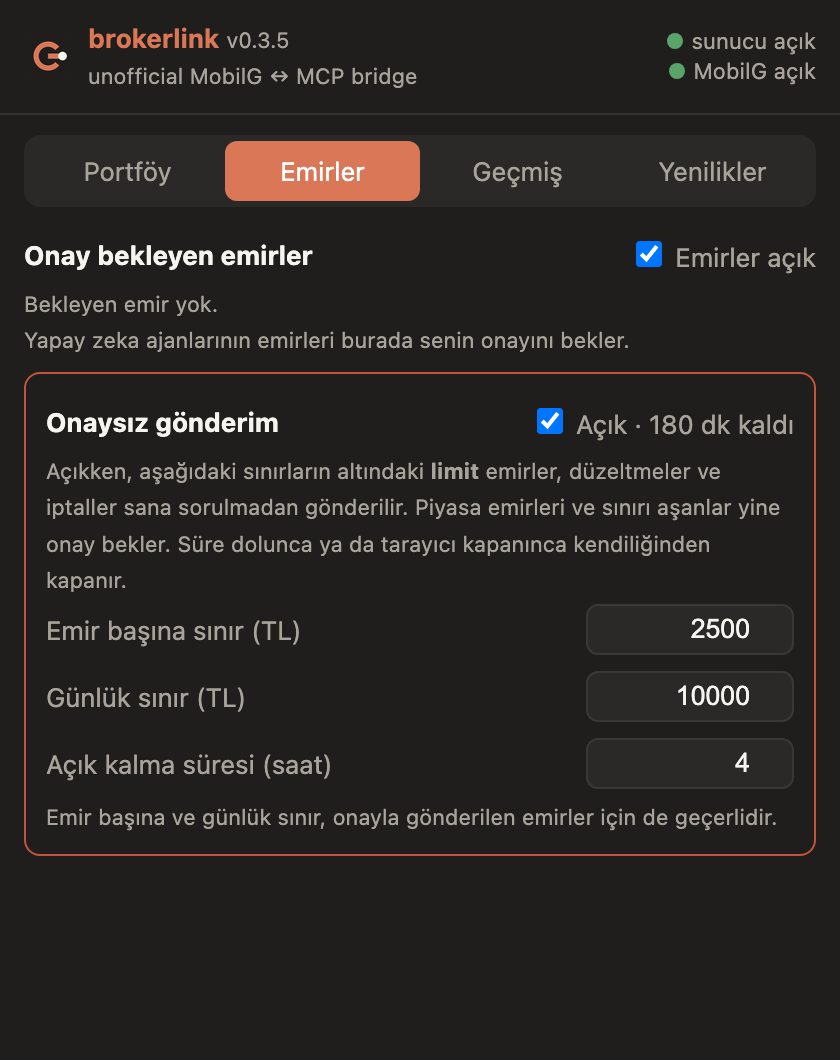
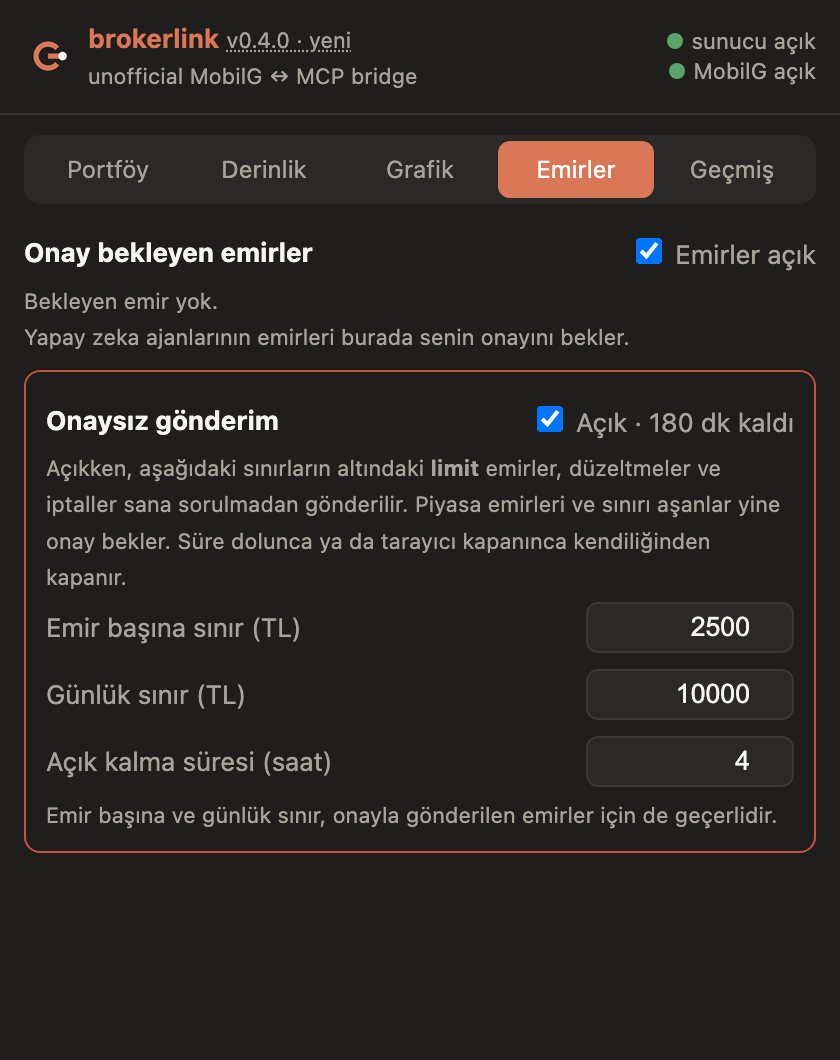
Popup: depth and chart tabs, P/L border colour scale, fix empty bid/ask (0.4.0)

diff --git a/docs/index.html b/docs/index.html
@@ -3,7 +3,7 @@
 <link rel="canonical" href="https://nsozturk.github.io/brokerlink/">
 <meta property="og:title" content="brokerlink"><meta property="og:description" content="brokerlink is a free, open-source Chrome extension and local MCP server that lets Claude, Codex, Gemini and other AI tools read your own PhillipCapital MobilG brokerage accoun"><meta property="og:image" content="https://nsozturk.github.io/brokerlink/assets/banner.png"><meta property="og:url" content="https://nsozturk.github.io/brokerlink/"><meta property="og:site_name" content="brokerlink">
 <meta name="twitter:card" content="summary_large_image"><meta name="twitter:image" content="https://nsozturk.github.io/brokerlink/assets/banner.png">
-<script type="application/ld+json">{"@context": "https://schema.org", "@type": "SoftwareApplication", "name": "brokerlink", "description": "brokerlink is a free, open-source Chrome extension and local MCP server that lets Claude, Codex, Gemini and other AI tools read your own PhillipCapital MobilG brokerage account through your logged-in browser tab.", "applicationCategory": "DeveloperApplication", "operatingSystem": "macOS, Linux, Windows (Chrome, Firefox)", "offers": {"@type": "Offer", "price": "0", "priceCurrency": "USD"}, "license": "https://opensource.org/licenses/MIT", "codeRepository": "https://github.com/nsozturk/brokerlink", "softwareVersion": "0.3.5"}</script><script type="application/ld+json">{"@context": "https://schema.org", "@type": "FAQPage", "mainEntity": [{"@type": "Question", "name": "Do I have to copy tokens or cookies after logging in?", "acceptedAnswer": {"@type": "Answer", "text": "No. The extension reads the session inside the MobilG tab at the moment of each call, so it works as soon as you are logged in."}}, {"@type": "Question", "name": "Can an AI place trades with this?", "acceptedAnswer": {"@type": "Answer", "text": "An agent can only queue an order; a person must click Approve in the extension popup, and a popup switch turns orders off entirely."}}, {"@type": "Question", "name": "Can it withdraw or transfer money?", "acceptedAnswer": {"@type": "Answer", "text": "No. Money-out and transfer endpoints are on a deny list in both the daemon and the extension."}}, {"@type": "Question", "name": "Does it work with claude.ai or ChatGPT in the browser?", "acceptedAnswer": {"@type": "Answer", "text": "No. Cloud chat apps cannot reach a localhost server. Use a local client such as Claude Code, Codex, Antigravity (eski adıyla Gemini CLI), OpenCode, Cursor or Claude Desktop."}}, {"@type": "Question", "name": "Is it an alternative to Phillip Intelligence?", "acceptedAnswer": {"@type": "Answer", "text": "It complements it. Phillip Intelligence is the official MCP for claude.ai and ChatGPT; brokerlink is an unofficial read-first bridge for local AI clients."}}]}</script>
+<script type="application/ld+json">{"@context": "https://schema.org", "@type": "SoftwareApplication", "name": "brokerlink", "description": "brokerlink is a free, open-source Chrome extension and local MCP server that lets Claude, Codex, Gemini and other AI tools read your own PhillipCapital MobilG brokerage account through your logged-in browser tab.", "applicationCategory": "DeveloperApplication", "operatingSystem": "macOS, Linux, Windows (Chrome, Firefox)", "offers": {"@type": "Offer", "price": "0", "priceCurrency": "USD"}, "license": "https://opensource.org/licenses/MIT", "codeRepository": "https://github.com/nsozturk/brokerlink", "softwareVersion": "0.4.0"}</script><script type="application/ld+json">{"@context": "https://schema.org", "@type": "FAQPage", "mainEntity": [{"@type": "Question", "name": "Do I have to copy tokens or cookies after logging in?", "acceptedAnswer": {"@type": "Answer", "text": "No. The extension reads the session inside the MobilG tab at the moment of each call, so it works as soon as you are logged in."}}, {"@type": "Question", "name": "Can an AI place trades with this?", "acceptedAnswer": {"@type": "Answer", "text": "An agent can only queue an order; a person must click Approve in the extension popup, and a popup switch turns orders off entirely."}}, {"@type": "Question", "name": "Can it withdraw or transfer money?", "acceptedAnswer": {"@type": "Answer", "text": "No. Money-out and transfer endpoints are on a deny list in both the daemon and the extension."}}, {"@type": "Question", "name": "Does it work with claude.ai or ChatGPT in the browser?", "acceptedAnswer": {"@type": "Answer", "text": "No. Cloud chat apps cannot reach a localhost server. Use a local client such as Claude Code, Codex, Antigravity (eski adıyla Gemini CLI), OpenCode, Cursor or Claude Desktop."}}, {"@type": "Question", "name": "Is it an alternative to Phillip Intelligence?", "acceptedAnswer": {"@type": "Answer", "text": "It complements it. Phillip Intelligence is the official MCP for claude.ai and ChatGPT; brokerlink is an unofficial read-first bridge for local AI clients."}}]}</script>
 <style>:root{--bg:#090d16;--card:#0f172a;--accent:#d97757;--border:#1e293b;--fg:#e8e6df;--muted:#9aa3b2}
 *{box-sizing:border-box}body{margin:0;background:var(--bg);color:var(--fg);font:15px/1.6 -apple-system,system-ui,sans-serif}
 header{position:sticky;top:0;z-index:2;display:flex;gap:12px;align-items:center;padding:12px 20px;background:#0b101bee;border-bottom:1px solid var(--border)}
@@ -17,9 +17,9 @@ table{width:100%;border-collapse:collapse;display:block;overflow-x:auto}th,td{te
 .tour{display:flex;gap:20px;align-items:flex-start;flex-wrap:wrap}.tour img{width:280px;border-radius:12px;border:1px solid var(--border)}.tour div{flex:1;min-width:240px}.code{position:relative;margin:10px 0}.code pre{margin:0;padding:14px;background:var(--card);border:1px solid var(--border);border-radius:10px;overflow-x:auto}.code pre code{background:none;padding:0}
 .code button{position:absolute;right:8px;top:8px;background:var(--border);color:var(--fg);border:0;border-radius:6px;padding:3px 8px;cursor:pointer}
 @media(max-width:760px){aside{display:none}main{padding:16px}}</style></head><body>
-<header><b>brokerlink</b><span>v0.3.5</span><a href="https://github.com/nsozturk/brokerlink">GitHub</a></header>
+<header><b>brokerlink</b><span>v0.4.0</span><a href="https://github.com/nsozturk/brokerlink">GitHub</a></header>
 <div class="wrap"><aside><input id="q" placeholder="Search…" aria-label="Search"><a href="#overview">Overview</a><a href="#tour">Popup tour</a><a href="#quickstart">Quick start</a><a href="#clients">Connect an AI client</a><a href="#tools">MCP tools</a><a href="#catalog">Endpoint catalog</a><a href="#orders">Orders and safety</a><a href="#trading">Placing an order</a><a href="#architecture">Architecture</a><a href="#updates">Updates</a><a href="#troubleshooting">Troubleshooting</a><a href="#agents">AI agent integration</a><a href="#faq">FAQ</a></aside>
-<main><div class="banner-hero"><img src="assets/banner.png" onerror="this.onerror=null;this.src='../assets/banner.png'" alt="brokerlink banner"></div><section id="overview"><h2>Overview</h2><p>brokerlink is a free, open-source Chrome extension and local MCP server that lets Claude, Codex, Gemini and other AI tools read your own PhillipCapital MobilG brokerage account through your logged-in browser tab.</p><p><b>Unofficial.</b> Not affiliated with PhillipCapital. For your own account only. Not investment advice.</p><ul><li>Nothing to configure after login: the session is read inside your tab at call time.</li><li>The session never leaves the browser tab.</li><li>The tab is never opened or reloaded by brokerlink.</li><li>Every call is checked against one allowlist, twice.</li></ul></section><section id="tour"><h2>Popup tour</h2><p>The images use sample data, not a real account. The popup is in Turkish; each part is explained below.</p><h3>1. Portföy (portfolio)</h3><div class="tour"><img src="assets/screens/portfolio.png" alt="1. Portföy (portfolio)" loading="lazy"><div><p>Read live from your MobilG tab every time you open the popup.</p><ul><li><b>Top right:</b> two status dots: the local daemon ("sunucu") and the logged-in MobilG tab.</li><li><b>Table:</b> symbol, quantity (Adet), average cost (Maliyet), last price (Fiyat), today&#39;s change (Gün), and, in the tinted block, total profit/loss in TL (K/Z) and in percent against your cost.</li><li><b>Cards below the totals:</b> one per position: best bid (Alış) and ask (Satış), spread (Makas), a bar showing where the price sits between today&#39;s floor (Taban) and ceiling (Tavan), and the depth levels with a buy/sell balance when MobilG returns them (its REST snapshot is often empty; live depth is pushed over a stream).<br><img src="assets/screens/depth.png" alt="Per-position cards with bid, ask, band and depth" loading="lazy" style="margin-top:8px"></li><li><b>Below:</b> total profit/loss, value of shares, cash today and after settlement (T / T+2), and the account total.</li></ul></div></div><h3>2. Emirler (orders): approval</h3><div class="tour"><img src="assets/screens/orders.png" alt="2. Emirler (orders): approval" loading="lazy"><div><p>Orders queued by an AI client wait here.</p><ul><li><b>Card:</b> the exact order: side, symbol, quantity, price, type and total.</li><li><b>Onayla / Reddet:</b> approve sends it to MobilG; reject drops it. The AI is told which one you chose.</li><li><b>Emirler açık:</b> master switch. Off = every order tool is refused.</li><li>The tab label shows how many orders are waiting.</li></ul></div></div><h3>3. Emirler: Onaysız gönderim (send without approval)</h3><div class="tour"><img src="assets/screens/auto-send.png" alt="3. Emirler: Onaysız gönderim (send without approval)" loading="lazy"><div><p>Off by default. While on, small limit orders skip the approval click.</p><ul><li><b>Switch:</b> asks for confirmation and shows the minutes left.</li><li><b>Emir başına sınır:</b> largest single order in TL.</li><li><b>Günlük sınır:</b> total per day in TL.</li><li><b>Açık kalma süresi:</b> hours until it switches itself off. It also ends when the browser restarts.</li><li>Market orders and anything above the limits still wait for your click. The two limits also apply to approved orders.</li></ul></div></div><h3>4. Geçmiş (history)</h3><div class="tour"><img src="assets/screens/history.png" alt="4. Geçmiş (history)" loading="lazy"><div><p>Every order that passed through the extension, newest first, eight per page.</p><ul><li><b>✓ / ✕:</b> accepted by MobilG or not.</li><li><b>How:</b> sent with your approval, sent without approval, or rejected by you.</li><li><b>Last line:</b> time and MobilG's own answer, for example why an order was refused.</li></ul></div></div><h3>5. Yenilikler (what's new)</h3><div class="tour"><img src="assets/screens/news.png" alt="5. Yenilikler (what's new)" loading="lazy"><div><p>Release notes for each version and the time of the last update check. When a newer version exists a banner with a <b>Güncelle</b> (update) button appears at the top; if a release is marked as required, the popup locks until you update.</p></div></div></section><section id="quickstart"><h2>Quick start</h2><div class="code"><button onclick="navigator.clipboard.writeText(this.nextElementSibling.innerText);this.textContent='Copied'">Copy</button><pre><code>git clone https://github.com/nsozturk/brokerlink.git &amp;&amp; cd brokerlink
+<main><div class="banner-hero"><img src="assets/banner.png" onerror="this.onerror=null;this.src='../assets/banner.png'" alt="brokerlink banner"></div><section id="overview"><h2>Overview</h2><p>brokerlink is a free, open-source Chrome extension and local MCP server that lets Claude, Codex, Gemini and other AI tools read your own PhillipCapital MobilG brokerage account through your logged-in browser tab.</p><p><b>Unofficial.</b> Not affiliated with PhillipCapital. For your own account only. Not investment advice.</p><ul><li>Nothing to configure after login: the session is read inside your tab at call time.</li><li>The session never leaves the browser tab.</li><li>The tab is never opened or reloaded by brokerlink.</li><li>Every call is checked against one allowlist, twice.</li></ul></section><section id="tour"><h2>Popup tour</h2><p>The images use sample data, not a real account. The popup is in Turkish; each part is explained below.</p><h3>1. Portföy (portfolio)</h3><div class="tour"><img src="assets/screens/portfolio.png" alt="1. Portföy (portfolio)" loading="lazy"><div><p>Read live from your MobilG tab every time you open the popup.</p><ul><li><b>Top right:</b> two status dots: the local daemon ("sunucu") and the logged-in MobilG tab.</li><li><b>Table:</b> symbol, quantity (Adet), average cost (Maliyet), last price (Fiyat), today&#39;s change (Gün), and, in the tinted block, total profit/loss in TL (K/Z) and in percent against your cost.</li><li>The K/Z and % pair of each row has a border coloured on a scale from red (−15 % or worse) to green (+15 % or better).</li></ul></div></div><h3>2. Derinlik (depth)</h3><div class="tour"><img src="assets/screens/depth.png" alt="2. Derinlik (depth)" loading="lazy"><div><p>One card per position.</p><ul><li><b>Alış / Satış:</b> best bid and ask; <b>Makas</b> is the spread.</li><li><b>Bar:</b> where the price sits between today&#39;s floor (Taban) and ceiling (Tavan).</li><li><b>Levels:</b> five bid and ask levels with quantity bars and a buy/sell balance. They appear only if your account has a depth licence; otherwise the card says so and shows the best level.</li></ul></div></div><h3>3. Grafik (charts)</h3><div class="tour"><img src="assets/screens/charts.png" alt="3. Grafik (charts)" loading="lazy"><div><p>Candlestick charts for your positions, drawn from MobilG&#39;s own chart feed (the data behind its TradingView chart). Nothing is loaded from third parties.</p><ul><li><b>1G / 1A / 6A:</b> one day (15-minute bars), one month (hourly), six months (daily).</li><li><b>Top right of each card:</b> last price and the change over the shown range.</li></ul></div></div><h3>4. Emirler (orders): approval</h3><div class="tour"><img src="assets/screens/orders.png" alt="Emirler: approval" loading="lazy"><div><p>Orders queued by an AI client wait here.</p><ul><li><b>Card:</b> the exact order: side, symbol, quantity, price, type and total.</li><li><b>Onayla / Reddet:</b> approve sends it to MobilG; reject drops it. The AI is told which one you chose.</li><li><b>Emirler açık:</b> master switch. Off = every order tool is refused.</li><li>The tab label shows how many orders are waiting.</li></ul></div></div><h3>5. Emirler: Onaysız gönderim (send without approval)</h3><div class="tour"><img src="assets/screens/auto-send.png" alt="3. Emirler: Onaysız gönderim (send without approval)" loading="lazy"><div><p>Off by default. While on, small limit orders skip the approval click.</p><ul><li><b>Switch:</b> asks for confirmation and shows the minutes left.</li><li><b>Emir başına sınır:</b> largest single order in TL.</li><li><b>Günlük sınır:</b> total per day in TL.</li><li><b>Açık kalma süresi:</b> hours until it switches itself off. It also ends when the browser restarts.</li><li>Market orders and anything above the limits still wait for your click. The two limits also apply to approved orders.</li></ul></div></div><h3>6. Geçmiş (history)</h3><div class="tour"><img src="assets/screens/history.png" alt="4. Geçmiş (history)" loading="lazy"><div><p>Every order that passed through the extension, newest first, eight per page.</p><ul><li><b>✓ / ✕:</b> accepted by MobilG or not.</li><li><b>How:</b> sent with your approval, sent without approval, or rejected by you.</li><li><b>Last line:</b> time and MobilG's own answer, for example why an order was refused.</li></ul></div></div><h3>7. Yenilikler (what's new)</h3><div class="tour"><img src="assets/screens/news.png" alt="5. Yenilikler (what's new)" loading="lazy"><div><p>Opens when you click the version label next to the name. Release notes for each version and the time of the last update check. When a newer version exists a banner with a <b>Güncelle</b> (update) button appears at the top; if a release is marked as required, the popup locks until you update.</p></div></div></section><section id="quickstart"><h2>Quick start</h2><div class="code"><button onclick="navigator.clipboard.writeText(this.nextElementSibling.innerText);this.textContent='Copied'">Copy</button><pre><code>git clone https://github.com/nsozturk/brokerlink.git &amp;&amp; cd brokerlink
 pip install -r requirements.txt
 python3 server/brokerlink.py serve</code></pre></div><ol><li>Chrome, Edge, Brave: <code>chrome://extensions</code> → Developer mode → Load unpacked → <code>extension/</code>. Firefox 121+: build with <code>python3 scripts/package.py</code>, load <code>dist/brokerlink-firefox-*.xpi</code> from <code>about:debugging</code>, then click <b>İzin ver</b> in the popup. Ready-made zip, crx and xpi files are attached to each <a href="https://github.com/nsozturk/brokerlink/releases">release</a>.</li><li>Open MobilG and log in as usual.</li><li>Register the stdio MCP server in your client.</li></ol></section><section id="clients"><h2>Connect an AI client</h2><div class="code"><button onclick="navigator.clipboard.writeText(this.nextElementSibling.innerText);this.textContent='Copied'">Copy</button><pre><code>claude mcp add --scope user brokerlink -- python3 /path/server/brokerlink.py mcp</code></pre></div><div class="code"><button onclick="navigator.clipboard.writeText(this.nextElementSibling.innerText);this.textContent='Copied'">Copy</button><pre><code>codex mcp add brokerlink -- python3 /path/server/brokerlink.py mcp</code></pre></div><div class="code"><button onclick="navigator.clipboard.writeText(this.nextElementSibling.innerText);this.textContent='Copied'">Copy</button><pre><code># Antigravity (eski adıyla Gemini CLI)
 agy mcp add brokerlink python3 /path/server/brokerlink.py mcp</code></pre></div><div class="code"><button onclick="navigator.clipboard.writeText(this.nextElementSibling.innerText);this.textContent='Copied'">Copy</button><pre><code>// Antigravity (eski adıyla Gemini CLI): ~/.gemini/settings.json

diff --git a/extension/popup.js b/extension/popup.js
@@ -17,10 +17,12 @@ async function openMobilg() {
 async function show(t) {
   document.querySelectorAll("#nav button").forEach(b => b.classList.toggle("on", b.dataset.t === t));
   document.querySelectorAll("main > div").forEach(d => { d.hidden = d.dataset.p !== t; });
-  chrome.storage.local.set({ tab: t });
+  if (t !== "news") chrome.storage.local.set({ tab: t });
   if (t === "history") renderHistory();
+  if (t === "charts") renderCharts();
 }
 document.querySelectorAll("#nav button").forEach(b => { b.onclick = () => show(b.dataset.t); });
+$("ver").onclick = () => show("news");          // release notes live behind the version label
 
 // ---- status + pending approvals
 async function renderStatus() {
@@ -64,18 +66,20 @@ async function renderPortfolio() {
   if (!r || r.error) { box.innerHTML = `<small>${esc((r && r.error) || "Cevap yok.")}</small>`; return; }
   const s = r.data.stockOrders || { rows: [] };
   const name = x => esc(String(x.symbolWithGroup || x.imkb).replace(/\(.*\)/, ""));
+  // Border colour scale: red at -15 % or worse, through amber, to the greenest green at +15 % or better.
+  const hue = pct => `border-color:hsl(${Math.max(0, Math.min(130, (pct + 15) / 30 * 130))} 62% 46%)`;
   const sign = n => (n >= 0 ? "+" : "") + n.toFixed(2) + "%";
   const rows = s.rows.map(x => {
     const pct = x.cost ? (x.price / x.cost - 1) * 100 : 0;
     const day = x.dayPct === undefined ? "<td>–</td>" : `<td class="${cls(x.dayPct)}">${sign(x.dayPct)}</td>`;
     return `<tr><td>${name(x)}</td><td>${x.quantity}</td><td>${tl(x.cost)}</td><td>${tl(x.price)}</td>${day}
-      <td class="pl l ${cls(x.profitLoss)}">${tl(x.profitLoss)}</td><td class="pl r ${cls(pct)}">${pct.toFixed(1)}%</td></tr>`;
+      <td class="pl l ${cls(x.profitLoss)}" style="${hue(pct)}">${tl(x.profitLoss)}</td><td class="pl r ${cls(pct)}" style="${hue(pct)}">${pct.toFixed(1)}%</td></tr>`;
   }).join("");
   // One small card per position: best bid/ask, spread, where the price sits in today's band, depth levels.
-  const cards = s.rows.filter(x => x.quote).map(x => {
+  const cards = s.rows.filter(x => x.quote && x.quote.bid > 0).map(x => {
     const q = x.quote, spread = q.bid > 0 ? (q.ask / q.bid - 1) * 100 : 0;
     const pos = q.ceil > q.floor ? Math.max(0, Math.min(100, (x.price - q.floor) / (q.ceil - q.floor) * 100)) : 50;
-    let depth = `<small>Kademe verisi yok (yalnız en iyi alış/satış). Tam derinlik MobilG'de canlı akışla gelir.</small>`;
+    let depth = `<small>${r.data.depthLicence ? "Kademe verisi şu an gelmedi (piyasa kapalı olabilir)." : "Hesabında derinlik lisansı yok; yalnız en iyi alış/satış gösteriliyor. Lisans MobilG'den alınır."}</small>`;
     if (x.depth) {
       const max = Math.max(...x.depth.map(l => Math.max(l.bidQty || 0, l.askQty || 0)), 1);
       const tb = x.depth.reduce((a, l) => a + (l.bidQty || 0), 0), ta = x.depth.reduce((a, l) => a + (l.askQty || 0), 0);
@@ -94,16 +98,57 @@ async function renderPortfolio() {
   const bal = (r.data.balances && r.data.balances.rows) || [];
   const cash = bal.find(b => /Net Bakiye/i.test(b.description));
   const overall = bal.find(b => /OVERALL/i.test(b.description));
-  box.innerHTML = `<table><thead><tr><th>Hisse</th><th>Adet</th><th>Maliyet</th><th>Fiyat</th><th>Gün</th><th class="pl l">K/Z</th><th class="pl r">%</th></tr></thead>
+  const totalCost = s.rows.reduce((a, x) => a + x.cost * x.quantity, 0), totalPct = totalCost ? (s.totalProfitLoss || 0) / totalCost * 100 : 0;
+  box.innerHTML = `<table class="pf"><thead><tr><th>Hisse</th><th>Adet</th><th>Maliyet</th><th>Fiyat</th><th>Gün</th><th>K/Z</th><th>%</th></tr></thead>
     <tbody>${rows || '<tr><td colspan="7"><small>Pozisyon yok.</small></td></tr>'}</tbody>
-    <tfoot><tr><td colspan="5">Toplam K/Z</td><td class="pl l ${cls(s.totalProfitLoss)}">${tl(s.totalProfitLoss || 0)}</td><td class="pl r"></td></tr></tfoot></table>
+    <tfoot><tr><td colspan="5">Toplam K/Z</td><td class="pl l ${cls(s.totalProfitLoss)}" style="${hue(totalPct)}">${tl(s.totalProfitLoss || 0)}</td><td class="pl r ${cls(totalPct)}" style="${hue(totalPct)}">${totalPct.toFixed(1)}%</td></tr></tfoot></table>
     <small>Gün: bugünkü değişim. K/Z ve %: maliyetine göre toplam.</small>
     <div class="row"><span>Hisse değeri</span><span>${tl(s.totalAmount || 0)} TL</span></div>
     ${cash ? `<div class="row"><span>Nakit (T / T+2)</span><span>${tl(cash.tBalance)} / ${tl(cash.t2Balance)} TL</span></div>` : ""}
-    ${overall ? `<div class="row"><span>Toplam</span><span>${tl(overall.tBalance)} TL</span></div>` : ""}
-    ${cards ? `<div style="margin-top:10px"><b>Alış / satış ve derinlik</b></div>${cards}` : ""}`;
+    ${overall ? `<div class="row"><span>Toplam</span><span>${tl(overall.tBalance)} TL</span></div>` : ""}`;
+  $("depth").innerHTML = cards || "<small>Pozisyon yok.</small>";
+  holdings = s.rows;
+  renderCharts();
   $("asof").textContent = new Date().toLocaleTimeString("tr-TR");
 }
+
+// ---- charts (candles drawn from MobilG's chart feed; portfolio holdings only)
+let holdings = [], range = "1A";
+const RANGES = { "1G": { resolution: "15", days: 4, bars: 34 }, "1A": { resolution: "60", days: 40, bars: 90 }, "6A": { resolution: "1D", days: 200, bars: 120 } };
+function draw(cv, d) {
+  const dpr = window.devicePixelRatio || 1, W = cv.clientWidth, H = cv.clientHeight, g = cv.getContext("2d");
+  cv.width = W * dpr; cv.height = H * dpr; g.scale(dpr, dpr);
+  const n = d.t.length, hi = Math.max(...d.h.map(Number)), lo = Math.min(...d.l.map(Number)), pad = 52;
+  const y = v => 6 + (hi - v) / ((hi - lo) || 1) * (H - 12), w = (W - pad) / n;
+  g.font = "10px -apple-system, sans-serif"; g.fillStyle = "#a8a49b"; g.strokeStyle = "#3a3836";
+  for (const v of [hi, (hi + lo) / 2, lo]) { g.beginPath(); g.moveTo(0, y(v)); g.lineTo(W - pad, y(v)); g.stroke(); g.fillText(tl(v), W - pad + 4, y(v) + 3); }
+  for (let i = 0; i < n; i++) {
+    const o = +d.o[i], c = +d.c[i], x = i * w + w / 2;
+    g.strokeStyle = g.fillStyle = c >= o ? "#5aa469" : "#c4553c";
+    g.beginPath(); g.moveTo(x, y(+d.h[i])); g.lineTo(x, y(+d.l[i])); g.stroke();
+    g.fillRect(x - Math.max(1, w * 0.35), Math.min(y(o), y(c)), Math.max(2, w * 0.7), Math.max(1, Math.abs(y(o) - y(c))));
+  }
+}
+async function renderCharts() {
+  document.querySelectorAll("#range button").forEach(b => b.classList.toggle("on", b.dataset.r === range));
+  const box = $("charts");
+  if (!holdings.length) { box.innerHTML = "<small>Pozisyon yok.</small>"; return; }
+  box.innerHTML = "";
+  for (const x of holdings) {
+    const el = document.createElement("div"); el.className = "card";
+    const sym = esc(String(x.symbolWithGroup || x.imkb).replace(/\(.*\)/, ""));
+    el.innerHTML = `<div class="row"><b style="color:var(--fg)">${sym}</b><span class="chg"></span></div><canvas></canvas>`;
+    box.append(el);
+    send({ type: "chart", symbol: x.foreksCode, ...RANGES[range] }).then(r => {
+      if (!r || r.error) { el.querySelector("canvas").replaceWith(Object.assign(document.createElement("small"), { textContent: (r && r.error) || "Grafik verisi yok." })); return; }
+      const d = r.data, k = RANGES[range].bars, cut = a => a.slice(-k), dd = { t: cut(d.t), o: cut(d.o), h: cut(d.h), l: cut(d.l), c: cut(d.c) };
+      const chg = (+dd.c[dd.c.length - 1] / +dd.o[0] - 1) * 100;
+      el.querySelector(".chg").innerHTML = `${tl(+dd.c[dd.c.length - 1])} <span class="${cls(chg)}">${chg >= 0 ? "+" : ""}${chg.toFixed(2)}%</span>`;
+      draw(el.querySelector("canvas"), dd);
+    });
+  }
+}
+document.querySelectorAll("#range button").forEach(b => { b.onclick = () => { range = b.dataset.r; renderCharts(); }; });
 
 // ---- order switches and limits
 const DEFAULTS = { maxOrder: 2500, maxDaily: 10000, autoHours: 4 };
@@ -185,7 +230,8 @@ async function renderUpdate() {
     `<div class="${v === loaded && seenVersion !== loaded ? "new" : ""}">v${esc(v)}${v === loaded && seenVersion !== loaded ? " · yeni" : ""}</div>
      <ul>${items.map(i => `<li>${esc(i)}</li>`).join("")}</ul>`).join("")
     + (u && u.checkedAt ? `<small>Son güncelleme denetimi: ${new Date(u.checkedAt).toLocaleString("tr-TR")}</small>` : "");
-  chrome.storage.local.set({ seenVersion: loaded });
+  if (seenVersion !== loaded) $("ver").textContent += " · yeni";
+  $("ver").addEventListener("click", () => chrome.storage.local.set({ seenVersion: loaded }), { once: true });
 }
 
 // Firefox treats host permissions as optional until the user grants them; Chrome grants them at install.

diff --git a/extension/popup.html b/extension/popup.html
@@ -22,13 +22,16 @@
   th { color: var(--muted); font-weight: 500; border-bottom: 1px solid var(--line); }
   tfoot td { border-top: 1px solid var(--line); font-weight: 600; }
   table { border-collapse: separate; border-spacing: 0; }
-  .pl { background: rgba(217, 119, 87, .13); } th.pl { color: var(--accent); }
-  .pl.l { padding-left: 8px; border-left: 4px solid var(--bg); } .pl.r { padding-right: 6px; }
-  thead .pl.l { border-top-left-radius: 8px; } thead .pl.r { border-top-right-radius: 8px; }
-  tfoot .pl.l { border-bottom-left-radius: 8px; } tfoot .pl.r { border-bottom-right-radius: 8px; }
+  table.pf { border-spacing: 0 3px; }
+  td.pl { border: 1.5px solid; border-left-width: 0; border-right-width: 0; }   /* colour set per row from the P/L % */
+  td.pl.l { border-left-width: 1.5px; border-radius: 8px 0 0 8px; padding-left: 8px; }
+  td.pl.r { border-right-width: 1.5px; border-radius: 0 8px 8px 0; padding-right: 6px; }
+  table.pf tfoot td { border-top: 0; } table.pf tfoot td.pl { border-top: 1.5px solid; }
   .band { position: relative; height: 4px; border-radius: 2px; margin: 6px 0 2px; background: linear-gradient(to right, var(--bad), #555, var(--ok)); }
   .band i { position: absolute; top: -4px; width: 4px; height: 12px; margin-left: -2px; border-radius: 2px; background: var(--fg); }
   .depth th, .depth td { font-size: 12px; text-align: center; }
+  nav button { font-size: 12px; } canvas { width: 100%; height: 150px; display: block; margin-top: 4px; }
+  #range button { padding: 3px 8px; } #range button.on { background: var(--accent); }
   .banner { padding: 10px 12px; background: var(--accent); color: #fff; } .banner.forced { background: var(--bad); }
   .banner button { background: #fff; color: #1f1e1d; margin-left: 8px; border: 0; border-radius: 6px; padding: 4px 8px; cursor: pointer; }
   ul { margin: 4px 0 8px; padding-left: 18px; color: var(--muted); } .new { color: var(--accent); }
@@ -37,16 +40,25 @@
   .h { border-bottom: 1px solid var(--line); padding: 6px 0; } .h small { display: block; }
   .pager { display: flex; justify-content: space-between; align-items: center; margin-top: 8px; }
 </style>
-<header><img src="icons/48.png" alt=""><div><b>brokerlink</b> <small id="ver"></small><br><small>unofficial MobilG ↔ MCP bridge</small></div>
+<header><img src="icons/48.png" alt=""><div><b>brokerlink</b> <small id="ver" title="Yenilikler" style="cursor:pointer;text-decoration:underline dotted"></small><br><small>unofficial MobilG ↔ MCP bridge</small></div>
   <div class="st"><span id="daemon">…</span><br><span id="tab">…</span></div></header>
 <div id="update"></div>
 <div id="perm" class="banner" hidden>Eklentinin MobilG sekmesine ve yerel sunucuya erişmesi için izin gerekiyor. <button id="perm-btn">İzin ver</button></div>
 <nav id="nav">
-  <button data-t="portfolio">Portföy</button><button data-t="orders">Emirler</button>
-  <button data-t="history">Geçmiş</button><button data-t="news">Yenilikler</button>
+  <button data-t="portfolio">Portföy</button><button data-t="depth">Derinlik</button><button data-t="charts">Grafik</button>
+  <button data-t="orders">Emirler</button><button data-t="history">Geçmiş</button>
 </nav>
 <main>
   <div data-p="portfolio"><b>Portföy</b> <small id="asof"></small><div id="portfolio"><small>Yükleniyor…</small></div></div>
+
+  <div data-p="depth" hidden><b>Alış / satış ve derinlik</b> <small>(portföyündeki hisseler)</small><div id="depth"><small>Yükleniyor…</small></div></div>
+
+  <div data-p="charts" hidden>
+    <div class="row"><b style="color:var(--fg)">Grafikler</b>
+      <span id="range"><button class="act plain" data-r="1G">1G</button> <button class="act plain" data-r="1A">1A</button> <button class="act plain" data-r="6A">6A</button></span></div>
+    <div id="charts"><small>Yükleniyor…</small></div>
+    <small>Veri MobilG'nin kendi grafik akışından gelir (MobilG'deki TradingView grafiğinin kullandığı veri).</small>
+  </div>
 
   <div data-p="orders" hidden>
     <div class="row"><b style="color:var(--fg)">Onay bekleyen emirler</b>

diff --git a/extension/background.js b/extension/background.js
@@ -240,7 +240,9 @@ async function portfolio() {
   const pi = await resolve({ name: "price_info" }), dp = await resolve({ name: "depth" });
   const run = async (spec, params) => {
     const [q] = await chrome.scripting.executeScript({ target: { tabId: tab.id }, func: inTab, args: [{ ...spec, body: null, params }] });
-    return JSON.parse(q.result.body);
+    let d = q.result.body;                     // some MobilG endpoints return JSON encoded twice
+    for (let i = 0; i < 2 && typeof d === "string"; i++) d = JSON.parse(d);
+    return d;
   };
   await Promise.all((body.hubDataList || []).map(async h => {
     const row = (body.stockOrders.rows || []).find(r => r.imkb === h.imkb);
@@ -258,10 +260,27 @@ async function portfolio() {
       if (lv.length) row.depth = lv;
     } catch { /* no depth for this row */ }
   }));
+  // Depth levels need a market-data licence on the account (0 = none); the popup says so instead of guessing.
+  const [lic] = await chrome.scripting.executeScript({ target: { tabId: tab.id },
+    func: () => { try { return Number(JSON.parse(localStorage.getItem("auth")).userDepthLicence) || 0; } catch { return 0; } } });
+  body.depthLicence = lic.result;
   return { data: body };
 }
 
+// Candles for the popup's chart tab (MobilG's own chart feed, the one behind its TradingView chart).
+async function chart(msg) {
+  const tab = await mobilgTab();
+  if (!tab) return { error: "no_tab" };
+  const spec = await resolve({ name: "chart_history" }), now = Math.floor(Date.now() / 1000);
+  const [q] = await chrome.scripting.executeScript({ target: { tabId: tab.id }, func: inTab, args: [{ ...spec, body: null,
+    params: { symbol: msg.symbol, resolution: msg.resolution, from: String(now - msg.days * 86400), to: String(now), countback: String(msg.bars) } }] });
+  let d = q.result.body;
+  for (let i = 0; i < 2 && typeof d === "string"; i++) d = JSON.parse(d);
+  return d && d.s === "ok" ? { data: d } : { error: "Grafik verisi yok." };
+}
+
 chrome.runtime.onMessage.addListener((msg, _s, reply) => {
+  if (msg.type === "chart") chart(msg).then(reply, e => reply({ error: String(e.message || e) }));
   if (msg.type === "approve") approveOrder(msg.id, msg.approve).then(() => reply({ ok: true }));
   if (msg.type === "settings") pushSettings().then(() => reply({ ok: true }));
   if (msg.type === "update") checkUpdate().then(reply);

diff --git a/scripts/make_screenshots.py b/scripts/make_screenshots.py
@@ -10,11 +10,11 @@ NOW = 1767258000000  # fixed clock so the images are reproducible
 
 SAMPLE = {
     "portfolio": {"stockOrders": {"totalAmount": 87450.0, "totalProfitLoss": 3150.0, "rows": [
-        {"symbolWithGroup": "GARAN(E)", "dayPct": 1.21, "quote": {"bid": 134.15, "ask": 134.25, "floor": 119.35, "ceil": 145.85}, "depth": [{"bid":134.15,"bidQty":18400,"ask":134.25,"askQty":9200},{"bid":134.10,"bidQty":22100,"ask":134.30,"askQty":15800},{"bid":134.05,"bidQty":9700,"ask":134.35,"askQty":21500},{"bid":134.00,"bidQty":30500,"ask":134.40,"askQty":12300},{"bid":133.95,"bidQty":7600,"ask":134.45,"askQty":8900}], "quantity": 200, "cost": 128.40, "price": 134.20, "profitLoss": 1160.0},
-        {"symbolWithGroup": "THYAO(E)", "dayPct": -0.48, "quote": {"bid": 310.25, "ask": 310.5, "floor": 280.75, "ceil": 343.25}, "quantity": 100, "cost": 296.00, "price": 310.50, "profitLoss": 1450.0},
-        {"symbolWithGroup": "ASELS(E)", "dayPct": 2.1, "quote": {"bid": 339.75, "ask": 340.0, "floor": 299.75, "ceil": 366.25}, "quantity": 60, "cost": 331.00, "price": 340.00, "profitLoss": 540.0},
-        {"symbolWithGroup": "KCHOL(E)", "dayPct": 0.0, "quote": {"bid": 189.9, "ask": 190.0, "floor": 171.0, "ceil": 209.0}, "quantity": 50, "cost": 190.00, "price": 190.00, "profitLoss": 0.0}]},
-        "balances": {"rows": [{"description": "Toplam Net Bakiye", "tBalance": 12500.0, "t2Balance": 12500.0},
+        {"symbolWithGroup": "GARAN(E)", "foreksCode": "H1", "dayPct": 1.21, "quote": {"bid": 134.15, "ask": 134.25, "floor": 119.35, "ceil": 145.85}, "depth": [{"bid":134.15,"bidQty":18400,"ask":134.25,"askQty":9200},{"bid":134.10,"bidQty":22100,"ask":134.30,"askQty":15800},{"bid":134.05,"bidQty":9700,"ask":134.35,"askQty":21500},{"bid":134.00,"bidQty":30500,"ask":134.40,"askQty":12300},{"bid":133.95,"bidQty":7600,"ask":134.45,"askQty":8900}], "quantity": 200, "cost": 128.40, "price": 134.20, "profitLoss": 1160.0},
+        {"symbolWithGroup": "THYAO(E)", "foreksCode": "H2", "dayPct": -0.48, "quote": {"bid": 310.25, "ask": 310.5, "floor": 280.75, "ceil": 343.25}, "quantity": 100, "cost": 296.00, "price": 310.50, "profitLoss": 1450.0},
+        {"symbolWithGroup": "ASELS(E)", "foreksCode": "H3", "dayPct": 2.1, "quote": {"bid": 339.75, "ask": 340.0, "floor": 299.75, "ceil": 366.25}, "quantity": 60, "cost": 331.00, "price": 340.00, "profitLoss": 540.0},
+        {"symbolWithGroup": "KCHOL(E)", "foreksCode": "H4", "dayPct": 0.0, "quote": {"bid": 189.9, "ask": 190.0, "floor": 171.0, "ceil": 209.0}, "quantity": 50, "cost": 190.00, "price": 190.00, "profitLoss": 0.0}]},
+        "depthLicence": 1, "balances": {"rows": [{"description": "Toplam Net Bakiye", "tBalance": 12500.0, "t2Balance": 12500.0},
                               {"description": "OVERALL(TL)", "tBalance": 99950.0}]}},
     "pending": [{"id": "a1", "name": "order", "preview": "BUY GARAN.E 10 @ 133.5 TRY (LMT/GUN) = 1,335.00 TL"}],
     "history": [
@@ -34,9 +34,10 @@ window.chrome = {storage: {local: store(local), session: store(session)},
   permissions: {contains: async () => true, request: async () => true},
   tabs: {query: async () => [{url: 'https://mobilg.phillip.com.tr/tr/dashboard'}]},
   runtime: {getURL: p => p, getManifest: () => ({version: REL.version}),
-    sendMessage: async m => m.type === 'portfolio' ? {data: S.portfolio} : m.type === 'update' ? {forced: false, available: false, notes: REL.notes, checkedAt: Date.now()} : {ok: true}}};
+    sendMessage: async m => m.type === 'chart' ? {data: candles(m.symbol, m.bars)} : m.type === 'portfolio' ? {data: S.portfolio} : m.type === 'update' ? {forced: false, available: false, notes: REL.notes, checkedAt: Date.now()} : {ok: true}}};
+function candles(seed, n) { let x = [...String(seed)].reduce((a, c) => a + c.charCodeAt(0), 0), p = ({H1: 124, H2: 318, H3: 322, H4: 196})[seed] || 100; const r = () => (x = (x * 9301 + 49297) %% 233280) / 233280;
+  const d = {s: 'ok', t: [], o: [], h: [], l: [], c: []}; for (let i = 0; i < n; i++) { const o = p, c = p * (1 + (r() - .47) * .03); d.t.push(i); d.o.push(o); d.c.push(c); d.h.push(Math.max(o, c) * (1 + r() * .008)); d.l.push(Math.min(o, c) * (1 - r() * .008)); p = c; } return d; }
 window.fetch = async u => ({ok: true, json: async () => REL});
-if (new URLSearchParams(location.search).get('scroll')) setTimeout(() => { document.querySelector('main').scrollTop = 262; }, 600);
 """ % (json.dumps(SAMPLE, ensure_ascii=False), json.dumps(RELEASE, ensure_ascii=False), NOW)
 
 tmp = tempfile.mkdtemp(prefix="brokerlink-shots-")
@@ -44,7 +45,7 @@ shutil.copytree(os.path.join(ROOT, "extension"), tmp, dirs_exist_ok=True)
 html = open(os.path.join(tmp, "popup.html")).read().replace('<script src="popup.js">', '<script src="stub.js"></script><script src="popup.js">')
 open(os.path.join(tmp, "popup.html"), "w").write(html)
 open(os.path.join(tmp, "stub.js"), "w").write(STUB)
-for name, query in (("portfolio", "tab=portfolio"), ("depth", "tab=portfolio&scroll=1"), ("orders", "tab=orders"), ("auto-send", "tab=orders&auto=1"),
+for name, query in (("portfolio", "tab=portfolio"), ("depth", "tab=depth"), ("charts", "tab=charts"), ("orders", "tab=orders"), ("auto-send", "tab=orders&auto=1"),
                     ("history", "tab=history"), ("news", "tab=news")):
     for out in (os.path.join(ROOT, "assets", "screens"), os.path.join(ROOT, "docs", "assets", "screens")):
         os.makedirs(out, exist_ok=True)

diff --git a/README.md b/README.md
@@ -23,13 +23,13 @@ brokerlink is a free, open-source Chrome extension and local MCP server that let
 
 Sample data, not a real account.
 
-| Portfolio | Orders | Send without approval | History |
-|---|---|---|---|
-| <img src="assets/screens/portfolio.png" width="210" alt="Portfolio tab: positions, cost, price, profit and loss"> | <img src="assets/screens/orders.png" width="210" alt="Orders tab: an order waiting for approval"> | <img src="assets/screens/auto-send.png" width="210" alt="Auto-send card with per-order limit, daily limit and duration"> | <img src="assets/screens/history.png" width="210" alt="History tab: sent, amended, cancelled and rejected orders"> |
+| Portfolio | Depth | Charts |
+|---|---|---|
+| <img src="assets/screens/portfolio.png" width="260" alt="Portfolio tab: positions, cost, price, day change, profit and loss"> | <img src="assets/screens/depth.png" width="260" alt="Depth tab: best bid and ask, spread, daily band and depth levels per position"> | <img src="assets/screens/charts.png" width="260" alt="Charts tab: candlestick charts for the positions"> |
 
-Below the totals the portfolio tab also shows a card per position: best bid and ask, spread, where the price sits in today's band and, when MobilG returns them, the depth levels:
-
-<img src="assets/screens/depth.png" width="260" alt="Per-position cards: bid, ask, spread, daily band and depth levels">
+| Orders | Send without approval | History |
+|---|---|---|
+| <img src="assets/screens/orders.png" width="260" alt="Orders tab: an order waiting for approval"> | <img src="assets/screens/auto-send.png" width="260" alt="Auto-send card with per-order limit, daily limit and duration"> | <img src="assets/screens/history.png" width="260" alt="History tab: sent, amended, cancelled and rejected orders"> |
 
 A part-by-part tour is in the [documentation](https://nsozturk.github.io/brokerlink/#tour).
 
@@ -60,13 +60,13 @@ AI client ──stdio MCP──▶ brokerlink.py mcp ──HTTP──▶ brokerl
 | Safe writes | follow lists and price alarms |
 | Orders | new, cancel, amend: queued for your click, see below |
 
-The extension popup has four tabs: portfolio (positions, cost, last price, profit/loss), orders (approvals and settings), order history and release notes.
+The extension popup has five tabs: portfolio (positions, cost, last price, day change, profit/loss), depth (best bid/ask, spread, daily band, depth levels with a depth licence), charts (candles for your positions), orders (approvals and settings) and order history. Release notes open from the version label.
 
 **Never included:** money-out and asset-transfer endpoints (EFT, transfers, FX conversion, collateral), login, password and settings, and the broker's AI-authorization switches. They are on a deny list.
 
 ## Orders
 
-The popup is in Turkish (the broker's market): *Portföy* = portfolio, *Emirler* = orders, *Geçmiş* = history, *Yenilikler* = what's new, *Onayla / Reddet* = approve / reject, *Emirler açık* = orders enabled, *Onaysız gönderim* = send without approval.
+The popup is in Turkish (the broker's market): *Portföy* = portfolio, *Derinlik* = depth, *Grafik* = charts, *Emirler* = orders, *Geçmiş* = history, *Onayla / Reddet* = approve / reject, *Emirler açık* = orders enabled, *Onaysız gönderim* = send without approval.
 
 On by default, with a switch in the extension popup ("Emirler açık") to turn them off. An order from an AI is only **queued**: nothing is sent until **you click Onayla (approve) in the popup**. The per-order and daily limits you set in the popup (defaults 2,500 TL and 10,000 TL) are checked first. An AI agent cannot approve and cannot flip the switches: they live in the browser.
 

diff --git a/AGENTS.md b/AGENTS.md
@@ -36,7 +36,7 @@ Read `README.md` first. Hard rules for anyone extending this repo:
 |---|---|
 | Conditional orders | `StockOrder/SetSyntheticOrderAsync` (POST, auth in query), `DeleteSyntheticOrderAsync?id=`; body not captured yet — capture one from the UI first |
 | Chain orders | `OrderTransaction/chainOrderAsync`, body in `research/order-endpoints.md` |
-| Real-time stream | SignalR hub `hubmobilg.phillip.com.tr/signalr`: `getMessage` (prices), `getDepthMessage`, `getLastCompletedOrderMessage`, `getBalanceMessage`, `getPositionNotification`. Needs an in-page listener |
+| Real-time stream | ASP.NET Core SignalR hub (`<hub>/signalr`, WebSocket, MessagePack). The page subscribes with `connectUser2(…, selectedStock, …)`: one selected stock per connection. Pushes `getMessage` (prices), `getBalanceMessage`, `getPositionNotification`, `getLastCompletedOrderMessage`, and `getDepthMessage` only for accounts with a depth licence (`auth.userDepthLicence` > 0; verified: none arrive with 0). Not implemented: needs a MAIN-world WebSocket hook installed at page load, and must not re-subscribe on the page's connection |
 | Tests | daemon validation (deny list, caps, unknown names) is pure Python and easy to unit-test |
 
 ## Releasing

diff --git a/CLAUDE.md b/CLAUDE.md
@@ -36,7 +36,7 @@ Read `README.md` first. Hard rules for anyone extending this repo:
 |---|---|
 | Conditional orders | `StockOrder/SetSyntheticOrderAsync` (POST, auth in query), `DeleteSyntheticOrderAsync?id=`; body not captured yet — capture one from the UI first |
 | Chain orders | `OrderTransaction/chainOrderAsync`, body in `research/order-endpoints.md` |
-| Real-time stream | SignalR hub `hubmobilg.phillip.com.tr/signalr`: `getMessage` (prices), `getDepthMessage`, `getLastCompletedOrderMessage`, `getBalanceMessage`, `getPositionNotification`. Needs an in-page listener |
+| Real-time stream | ASP.NET Core SignalR hub (`<hub>/signalr`, WebSocket, MessagePack). The page subscribes with `connectUser2(…, selectedStock, …)`: one selected stock per connection. Pushes `getMessage` (prices), `getBalanceMessage`, `getPositionNotification`, `getLastCompletedOrderMessage`, and `getDepthMessage` only for accounts with a depth licence (`auth.userDepthLicence` > 0; verified: none arrive with 0). Not implemented: needs a MAIN-world WebSocket hook installed at page load, and must not re-subscribe on the page's connection |
 | Tests | daemon validation (deny list, caps, unknown names) is pure Python and easy to unit-test |
 
 ## Releasing

diff --git a/GEMINI.md b/GEMINI.md
@@ -36,7 +36,7 @@ Read `README.md` first. Hard rules for anyone extending this repo:
 |---|---|
 | Conditional orders | `StockOrder/SetSyntheticOrderAsync` (POST, auth in query), `DeleteSyntheticOrderAsync?id=`; body not captured yet — capture one from the UI first |
 | Chain orders | `OrderTransaction/chainOrderAsync`, body in `research/order-endpoints.md` |
-| Real-time stream | SignalR hub `hubmobilg.phillip.com.tr/signalr`: `getMessage` (prices), `getDepthMessage`, `getLastCompletedOrderMessage`, `getBalanceMessage`, `getPositionNotification`. Needs an in-page listener |
+| Real-time stream | ASP.NET Core SignalR hub (`<hub>/signalr`, WebSocket, MessagePack). The page subscribes with `connectUser2(…, selectedStock, …)`: one selected stock per connection. Pushes `getMessage` (prices), `getBalanceMessage`, `getPositionNotification`, `getLastCompletedOrderMessage`, and `getDepthMessage` only for accounts with a depth licence (`auth.userDepthLicence` > 0; verified: none arrive with 0). Not implemented: needs a MAIN-world WebSocket hook installed at page load, and must not re-subscribe on the page's connection |
 | Tests | daemon validation (deny list, caps, unknown names) is pure Python and easy to unit-test |
 
 ## Releasing

diff --git a/CHANGELOG.md b/CHANGELOG.md
@@ -1,5 +1,10 @@
 # Changelog
 
+## 0.4.0
+- New popup tabs: depth (bid/ask cards) and charts (candles from MobilG's chart feed) for portfolio holdings.
+- Fix: bid/ask and band values were empty because of a double-encoded response.
+- Release notes moved behind the version label; the card says when the account has no depth licence.
+
 ## 0.3.5
 - Portfolio: day change column; P/L and % grouped in one tinted block.
 - Per-position cards: best bid/ask, spread, position in the daily band, depth levels when available.
